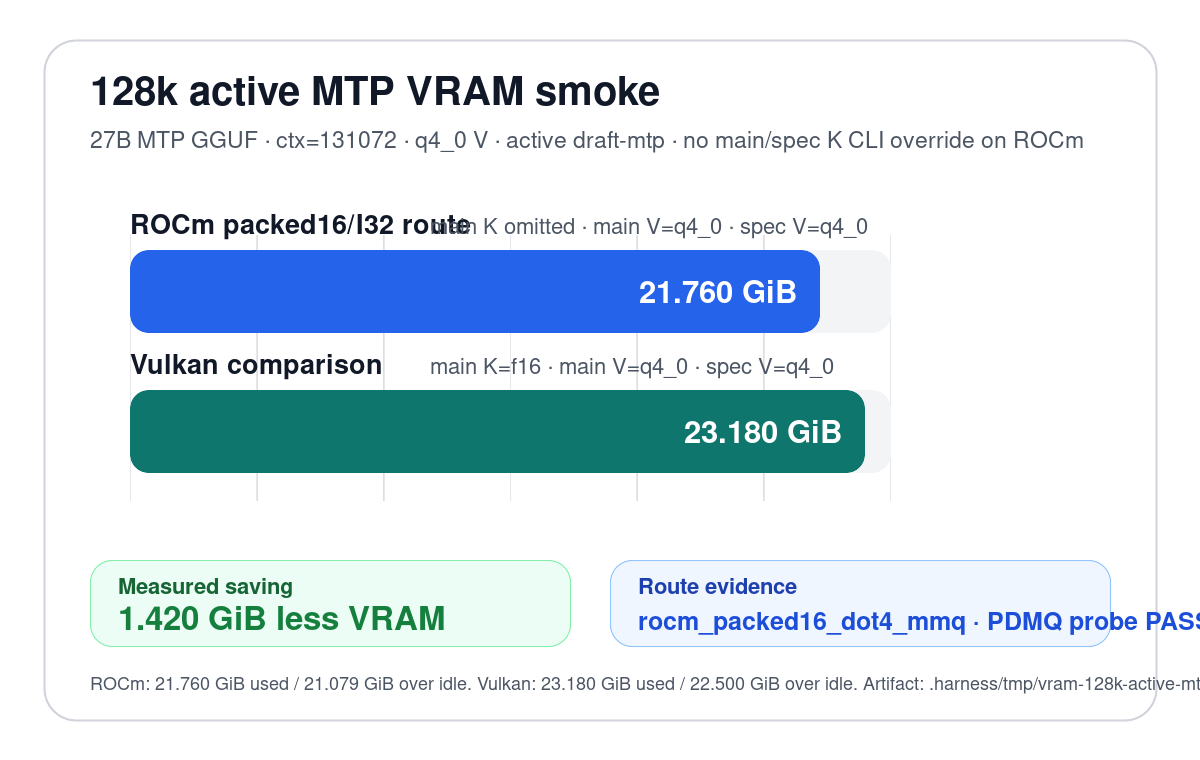
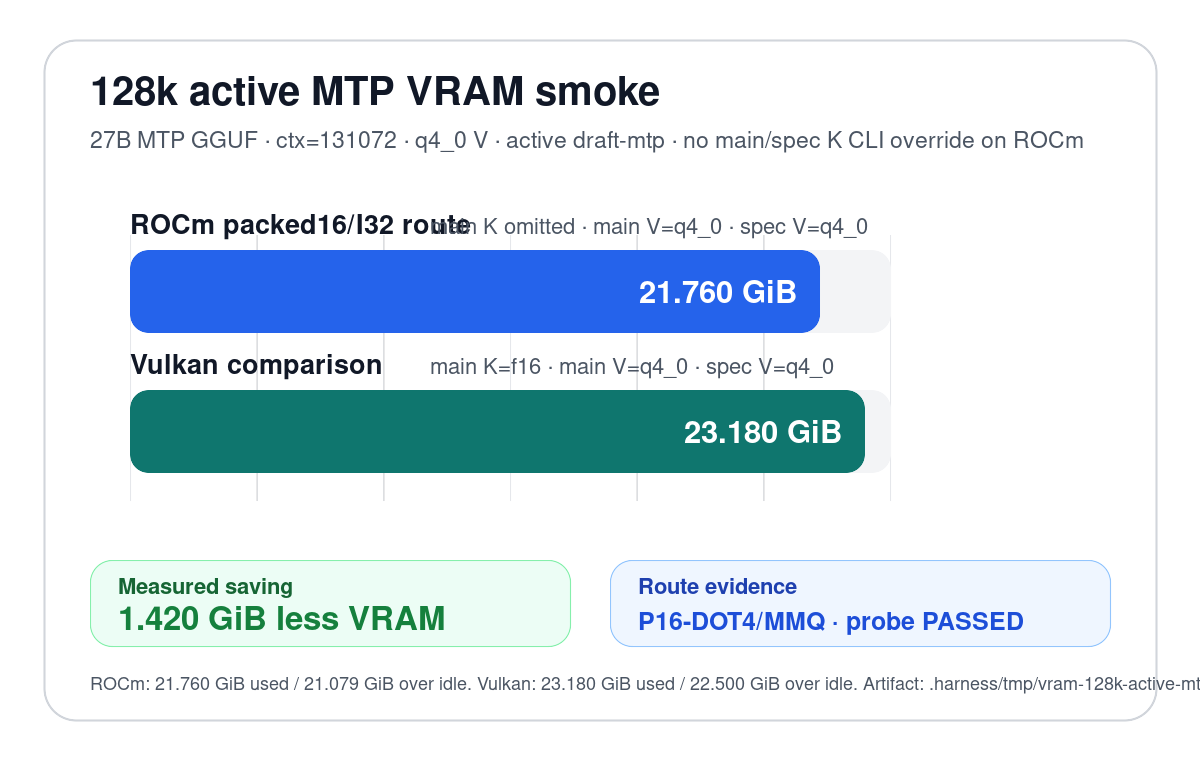
docs: shorten 128k VRAM route label
Use a compact P16-DOT4/MMQ label in the README graph and shorten the surrounding README route evidence wording.

Changed region(s): [[0.5242, 0.7868, 1.0, 0.8474]]

diff --git a/README.md b/README.md
@@ -98,7 +98,7 @@ K plus q4 V.
 | Vulkan f16 K + q4 V active MTP | `23.180 GiB` | `22.500 GiB` |
 
 Measured saving: Vulkan uses `+1.420 GiB` more total VRAM (`+1.422 GiB` delta
-over idle). ROCm route evidence included `rocm_packed16_dot4_mmq` and `PDMQ QK
+over idle). ROCm route evidence included the packed16 DOT4/MMQ route and `PDMQ QK
 probe PASSED`. Evidence:
 [`.harness/research/active-mtp-vram-128k-20260531.md`](.harness/research/active-mtp-vram-128k-20260531.md).
 
